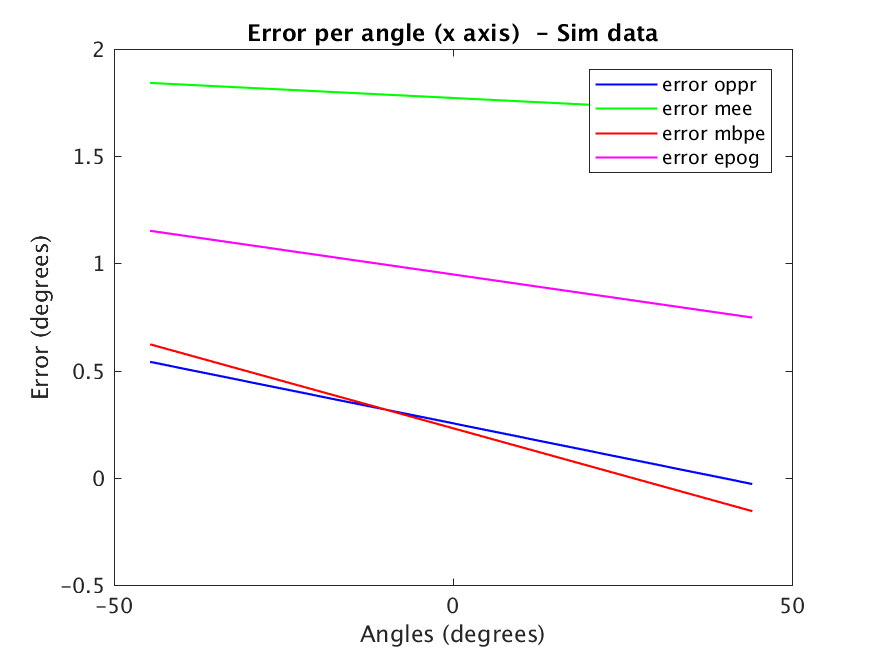
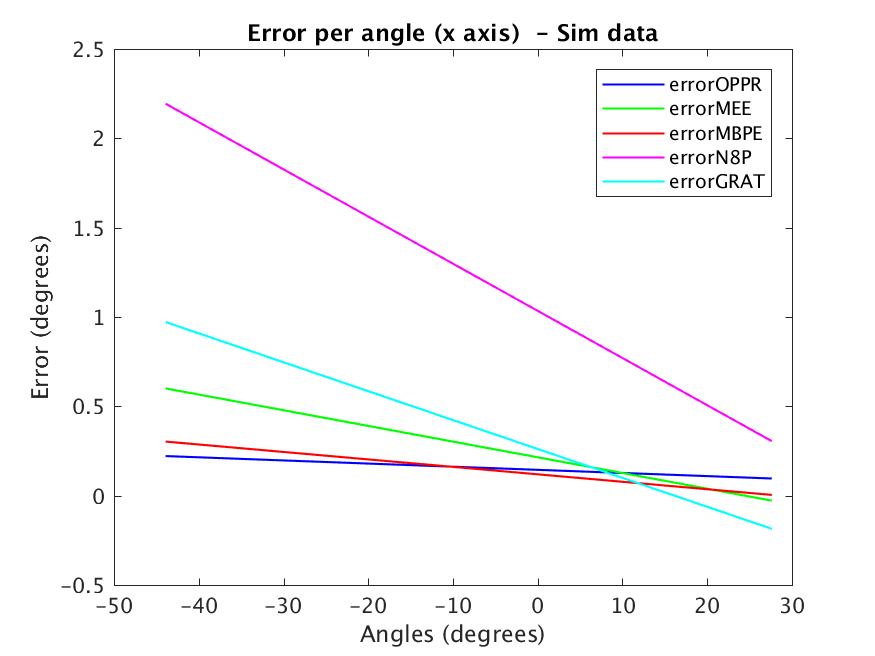
Added a generalistic way to add a method

diff --git a/Matlab/estimator/estimator.m b/Matlab/estimator/estimator.m
@@ -1,4 +1,4 @@
-function [eRoppr, eRmee, eRmbpe, eRn8p] = estimator(m1, m2, radius, K, B, eul)
+function [eR, eT] = estimator(m1, m2, radius, K, B, rreal, treal, methods)
 %estimator Estimate transformation error based on 4 different methods: 
 % orthogonal procrustes problem, full procrustes, minimization of back
 % projection error and epipolar geometry 
@@ -12,25 +12,38 @@ function [eRoppr, eRmee, eRmbpe, eRn8p] = estimator(m1, m2, radius, K, B, eul)
 %   eR...          Error from each method
 %%%%%%%%%%%%%%%%%%%%%%%%%%%%%%%%%%%%%%%%%%%
 
-%% Run orthogonal procrustes problem
+nMethods = size(methods, 2);
 [Roppr, Toppr] = orthProcrustesProb(m1, m2, radius, K);
 
-%% Run minimization of back projection error
-[Rmbpe, Tmbpe] = minBackProject(m1, m2, B, rotm2eul(Roppr), radius, K);
-
-%% Run minimization of epipolar error
-[Rmee, Tmee] = minEpipolarError(m1, m2, B, radius, K, rotm2eul(Roppr));
-
-%% Run epipolar geometry norm8point approach
-[Rn8p, Tn8p] = recoverPoseFromF(norm8point(m1, m2) , K, m1(:,1), m2(:,1), radius);
-
-%% Run epipolar geometry linear approach
-
-
-%% Compute error between each method results and truth
-eRoppr = norm(rotm2eul(Roppr)-eul);
-eRmee = norm(rotm2eul(Rmee)-eul);
-eRmbpe = norm(rotm2eul(Rmbpe)-eul);
-eRn8p = norm(rotm2eul(Rn8p)-eul);
+for j=1:nMethods
+    
+    if strcmp(methods(j), 'OPPR')
+        %% Run orthogonal procrustes problem
+        R = Roppr;
+        T = Toppr;
+    end
+    if strcmp(methods(j), 'MBPE') 
+        %% Run minimization of back projection error
+        [R, T] = minBackProject(m1, m2, B, rotm2eul(Roppr), radius, K);
+    end
+    if strcmp(methods(j), 'MEE')
+        %% Run minimization of epipolar error
+        [R, T] = minEpipolarError(m1, m2, B, radius, K, rotm2eul(Roppr));
+    end
+    if strcmp(methods(j), 'N8P')
+        %% Run epipolar geometry norm8point approach
+        [R, T] = recoverPoseFromF(norm8point(m1, m2) , K, m1(:,1), m2(:,1), radius);
+    end
+    if strcmp(methods(j), 'GRAT') 
+        %% Run epipolar geometry gradient technique
+        [R, T] = minEpipolarGradient(m1, m2, B, K, rotm2eul(Roppr));
+    end
+    
+    %% Compute error between each method results and truth
+    eR(j) = norm(rotm2eul(R)-rreal);
+    eT(j) = norm(T-treal);
+    clear R T;
+   
+end
  
 end

diff --git a/Matlab/reality/runReality.m b/Matlab/reality/runReality.m
@@ -1,4 +1,4 @@
-function [plotAng, axisCount, eRoppr, eRmee, eRmbpe, eRn8p] = runReality(filepath, samplePer, enoughPer, maxIters, maxErr, B,  radius, K, minPoints, maxPoints, radialDist, tanDist)
+function [plotAng, axisCount, eR, eT] = runReality(filepath, samplePer, enoughPer, maxIters, maxErr, B,  radius, K, minPoints, maxPoints, radialDist, tanDist, methods)
 %runReality Estimate transformation on real data
 %%%%%%%%%%%%%%%%%%%%%%%%%%%%%%%%%%%%%%%%%%%
 % Input
@@ -82,7 +82,12 @@ for z = 1:numel(dirs)
         plotAng(i,j) = rotations(k).angle;
 
         %% Estimate transformation error
-        [eRoppr(i,j), eRmee(i,j), eRmbpe(i,j), eRn8p(i,j) ]= estimator(m1, m2, radius, K, B, rotations(k).rot);
+        [eRi, eTi]= estimator(m1, m2, radius, K, B, rotations(k).rot, rotations(k).tr, methods);
+        sizeeRi = size(eRi, 2);
+        for n=1:sizeeRi
+            eR(3*(n-1)+i, j) = eRi(n); 
+            eT(3*(n-1)+i, j) = eTi(n); 
+        end
         j = j + 1;
 
      end

diff --git a/Matlab/estimator/objectiveFunGRAT.m b/Matlab/estimator/objectiveFunGRAT.m
@@ -1,5 +1,5 @@
-function f = objectiveFunMEE(x, m1, m2, B, K)
-%objectiveFun Objective function for MEE
+function f = objectiveFunGRAT(x, m1, m2, B, K)
+%objectiveFun Objective function for GRAT
 %%%%%%%%%%%%%%%%%%%%%%%%%%%%%%%%%%%%%%%%%
 % Input
 %   x(1:3) = R             Euler Angles
@@ -20,21 +20,17 @@ F = inv(K)'*Tx*R*inv(K);
 m1h = [m1; ones(1, nMatches)];
 m2h = [m2; ones(1, nMatches)];
 
+epiEq = sum(m2h.*(F*m1h));
+
 l2 = F*m1h;
 l1 = F'*m2h;
 
 aux1 = [1 0 0; 0 1 0]*l1;
 aux2 = [1 0 0; 0 1 0]*l2;
 
-norm1 = sqrt(aux1(1, :).*aux1(1, :) + aux1(2, :).*aux1(2, :));
-norm2 = sqrt(aux2(1, :).*aux2(1, :) + aux2(2, :).*aux2(2, :));
+var = aux2(1, :).*aux2(1, :) + aux2(2, :).*aux2(2, :) + ...
+    aux1(1, :).*aux1(1, :) + aux1(2, :).*aux1(2, :);
 
-l1 = l1./norm1;
-l2 = l2./norm2;
-
-err1 = m1h(:)'*l1(:);
-err2 = m2h(:)'*l2(:);
-
-f = err1.^2 + err2.^2;
+f = sum((epiEq.^2)/var.^2);
 
 end

diff --git a/Matlab/simulator/runSimulation.m b/Matlab/simulator/runSimulation.m
@@ -1,4 +1,4 @@
-function [eRoppr, eRmee, eRmbpe, eRn8p] = runSimulation(angles, radius, K, nMatches, maxD, minD, B, nAngles, nPixels, imgDim)
+function [eR, eT] = runSimulation(angles, radius, K, nMatches, maxD, minD, B, nAngles, nPixels, imgDim, methods)
 %runSimulation Simulate points on space and estimate transformation
 %%%%%%%%%%%%%%%%%%%%%%%%%%%%%%%%%%%%%%%%%%%
 % Input
@@ -29,7 +29,12 @@ for i=1:3
         end
         [m1, m2] = noiseGen(m1, m2, nMatches, nPixels);
         %% Estimate transformation error
-        [eRoppr(i,j), eRmee(i,j), eRmbpe(i,j), eRn8p(i,j)]= estimator(m1, m2, radius, K, B, rotm2eul(R));
+        [eRi, eTi]= estimator(m1, m2, radius, K, B, rotm2eul(R), T, methods);
+        sizeeRi = size(eRi, 2);
+        for n=1:sizeeRi
+            eR(3*(n-1)+i, j) = eRi(n); 
+            eT(3*(n-1)+i, j) = eTi(n); 
+        end
     end  
 end
  

diff --git a/Matlab/estimator/minEpipolarGradient.m b/Matlab/estimator/minEpipolarGradient.m
@@ -1,0 +1,24 @@
+function [Rgrat, Tgrat] = minEpipolarGradient(m1, m2, B, K, eulinit)
+%minEpipolarGradient Minimization of Epipolar Gradient
+%%%%%%%%%%%%%%%%%%%%%%%%%%%%%%%%%%%%%%%%%
+% Input
+%   m1,m2    2D points before and after
+%                  transformation
+%   B             Baseline
+%   Rinit        Initialization for the rotation matrix
+%   radius     Sphere radius
+%   K             Intrinsics matrix
+%   Roppr     Procrustes result
+% Output
+%   R,T          Rotation and Translation
+%%%%%%%%%%%%%%%%%%%%%%%%%%%%%%%%%%%%%%%%%
+I = [1 0 0; 0 1 0; 0 0 1];
+
+options = optimset('MaxFunEvals',10000000000, 'MaxIter', 1000);%, 'PlotFcns',@optimplotfval);
+[x,fval,exitflag,output] = fminsearch(@(x)objectiveFunGRAT(x, m1, m2, B, K), eulinit, options);% Finit(:), options);
+
+Rgrat = eul2rotm(x(1:3));
+Tgrat = (Rgrat-I)*B;
+
+end
+

diff --git a/Matlab/workshop.m b/Matlab/workshop.m
@@ -1,6 +1,9 @@
 close all;
 clear all;
 
+vars.methods = {'OPPR', 'MEE', 'MBPE', 'N8P', 'GRAT'};
+vars.colors = {'b', 'g', 'r', 'm', 'c'};
+
 vars.baseline = [0.02 -0.055 0.055]';
 vars.intrinsics = [1.1573e+03 -3.3579         975.9459; 
                            0                   1.1584e+03  798.4888;
@@ -11,7 +14,7 @@ vars.nMatches = 20;
 vars.sigma = 10;
 vars.minD = 0.05;
 vars.imgDim = [2056 1542];
-vars.nAngles = 100;
+vars.nAngles = 10;
 vars.nPixels = 5;
 
 vars.maxD = 0.24;
